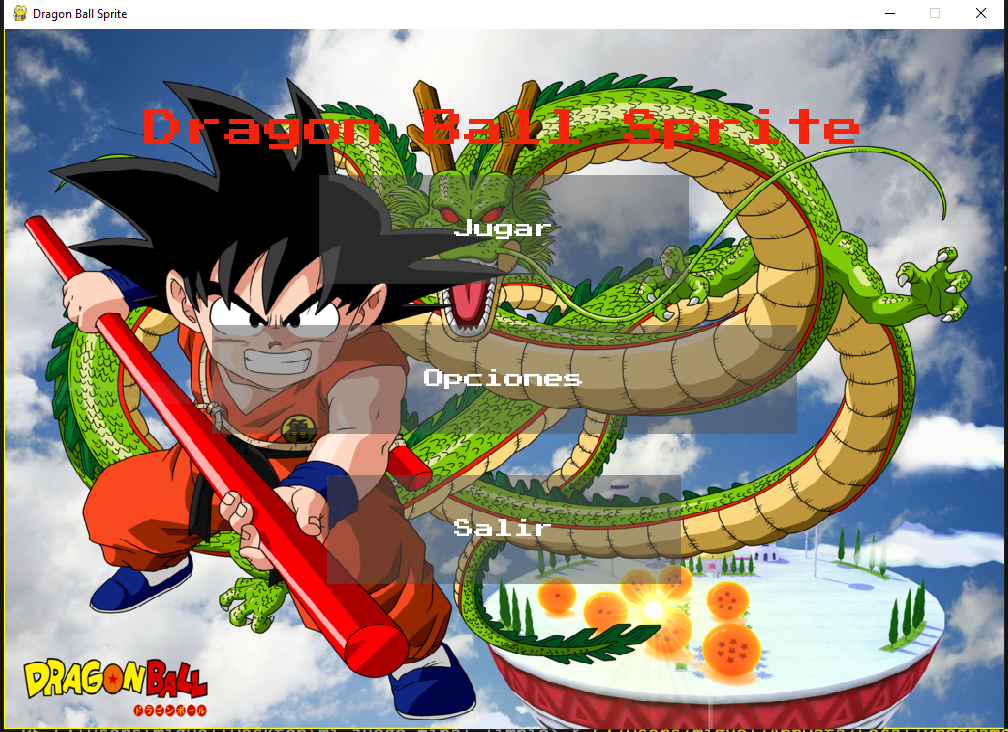
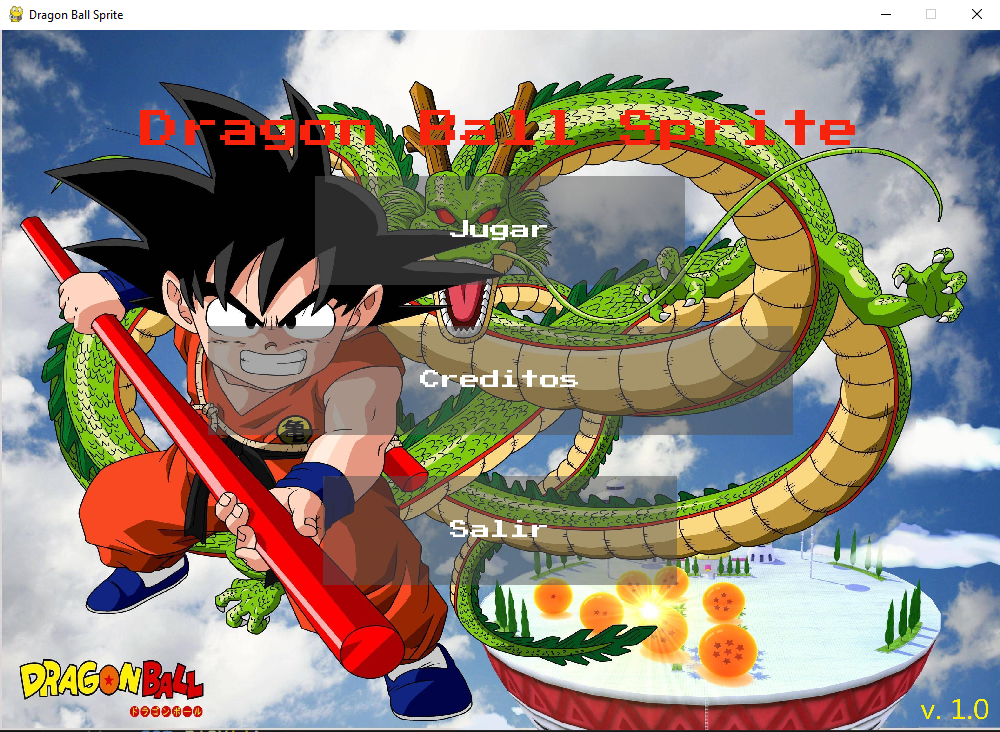
mejoras

diff --git a/main.py b/main.py
@@ -14,7 +14,7 @@ font_obtenida = "fonts/font.ttf"
 SCREEN = pygame.display.set_mode((ANCHO_PANTALLA, ALTO_PANTALLA))
 pygame.display.set_caption("Dragon Ball Sprite")
 
-background_main = pygame.image.load("asset/Kid Goku Wallpaper.png")
+background_main = pygame.image.load("asset/5795524.jpg")
 background_main_rescalado = pygame.transform.scale(background_main, (ANCHO_PANTALLA, ALTO_PANTALLA))
 game_over_respuesta = None
 list_resp_score_game = []
